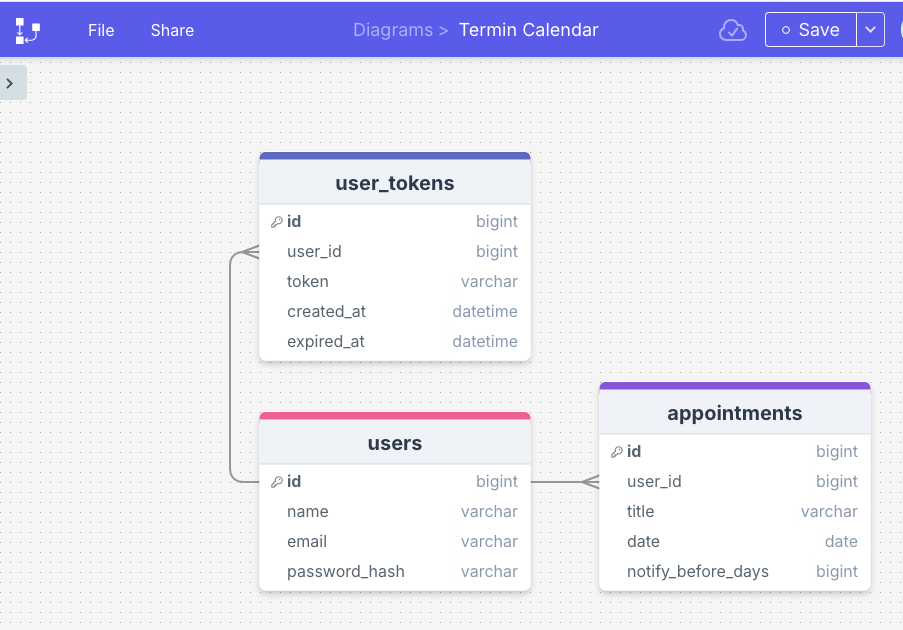
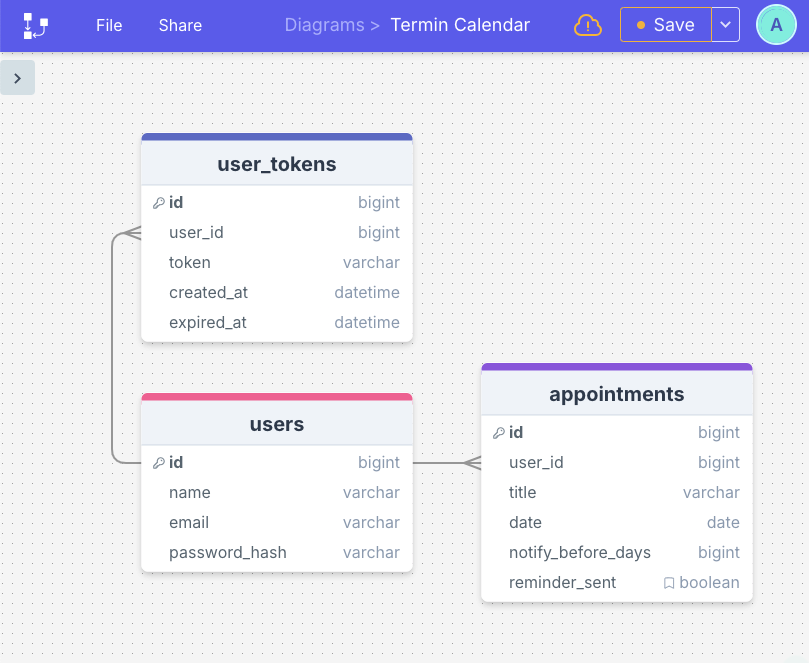
Add 'reminder_sent' flag to track if reminder was sent

diff --git a/app/send_reminders.php b/app/send_reminders.php
@@ -25,39 +25,45 @@ foreach ($appointments as $appointment) {
 
     logMessage("Checking appointment ID {$appointment->id}: appointment date {$appointmentDate}, notify date {$notifyDate}");
 
-    if ($today === $notifyDate) {
+    if ($today === $notifyDate && !$appointment->reminder_sent) {
         logMessage("Appointment ID {$appointment->id} is due for notification today.");
-
+    
         $user = $appointment->user;
-
+    
         if (!$user || empty($user->email)) {
             logMessage("Skipped: No user or email for appointment ID {$appointment->id}");
             continue;
         }
-
+    
         $mail = new PHPMailer(true);
-
+    
         try {
             logMessage("Preparing to send email to {$user->email}");
-
+    
             $mail->isSMTP();
             $mail->Host = $_ENV['MAIL_HOST'];
             $mail->SMTPAuth = filter_var($_ENV['MAIL_SMTP_AUTH'], FILTER_VALIDATE_BOOLEAN);
             $mail->Port = (int)$_ENV['MAIL_PORT'];
             $mail->setFrom($_ENV['MAIL_FROM_ADDRESS'], $_ENV['MAIL_FROM_NAME']);
-
+    
             $mail->addAddress($user->email, $user->name);
             $mail->Subject = 'Termin Erinnerung';
             $mail->Body = "Hi {$user->name},\n\ndies ist eine Erinnerung daran, dass du einen Termin mit dem Titel \"{$appointment->title}\" am {$appointment->date} hast.";
-
+    
             $mail->send();
-
+    
             logMessage("✅ Email sent to {$user->email} for appointment ID {$appointment->id}");
+    
+            // ✅ Mark appointment as reminded
+            $appointment->reminder_sent = true;
+            $appointment->save();
+    
         } catch (Exception $e) {
             logMessage("❌ Failed to send email to {$user->email}: {$mail->ErrorInfo}");
         }
-    } else {
-        logMessage("Skipped: Appointment ID {$appointment->id} is not due today.");
+    }
+     else {
+        logMessage("Skipped: Appointment ID {$appointment->id} is not due for notification or already sent.");
     }
 }
 

diff --git a/app/Models/Appointment.php b/app/Models/Appointment.php
@@ -14,6 +14,7 @@ class Appointment extends Model
         'title',
         'date',
         'notify_before_days',
+        'reminder_sent', 
     ];
 
     // Optional: define relationship to User
